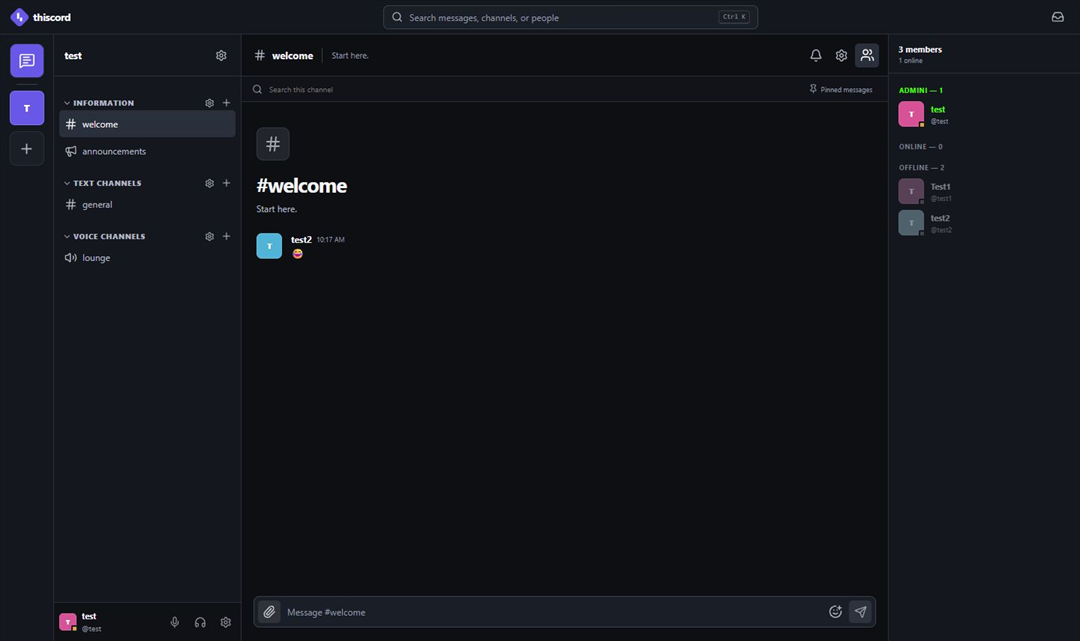
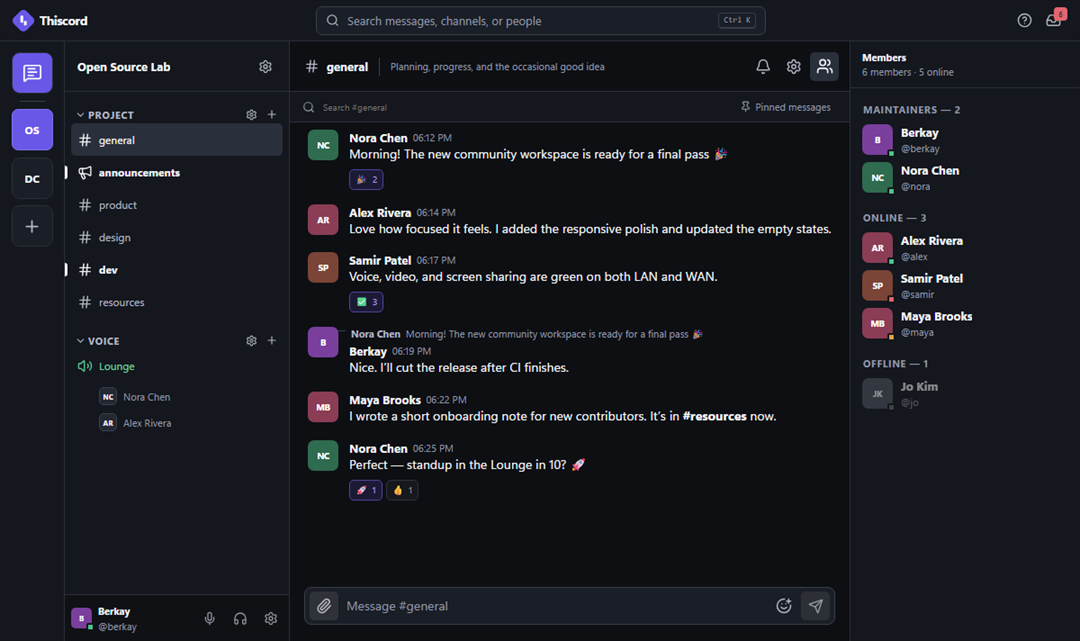
fix(renderer): unclip reaction picker

diff --git a/apps/renderer/tests/ui/renderer.spec.ts b/apps/renderer/tests/ui/renderer.spec.ts
@@ -186,6 +186,45 @@ test.describe('renderer accessibility and responsive contracts', () => {
     await expect(reaction).toHaveAttribute('aria-pressed', 'true')
   })
 
+  test('message reaction picker is not clipped by the message row', async ({ page }) => {
+    await page.setViewportSize({ width: 800, height: 700 })
+    await mountWorkspaceControls(page)
+
+    await page.locator('.message-row').hover()
+    await page.getByRole('button', { name: 'Add reaction' }).click()
+    const picker = page.getByRole('group', { name: 'Choose emoji' })
+    await expect(picker).toBeVisible()
+    await expect(picker.getByRole('button', { name: 'Insert 👍' })).toBeVisible()
+    await expect(picker.getByText('More emoji')).toBeVisible()
+
+    const geometry = await picker.evaluate((element) => {
+      const pickerBounds = element.getBoundingClientRect()
+      const messageBounds = element.closest('.message-list-item')?.getBoundingClientRect()
+      return {
+        pickerHeight: pickerBounds.height,
+        extendsPastMessage: Boolean(messageBounds && pickerBounds.bottom > messageBounds.bottom),
+        contentVisibility: messageBounds
+          ? getComputedStyle(element.closest('.message-list-item')!).contentVisibility
+          : '',
+      }
+    })
+    expect(geometry.pickerHeight).toBeGreaterThan(80)
+    expect(geometry.extendsPastMessage).toBe(true)
+    expect(geometry.contentVisibility).toBe('visible')
+
+    await page.setViewportSize({ width: 320, height: 568 })
+    const mobileGeometry = await picker.evaluate((element) => {
+      const bounds = element.getBoundingClientRect()
+      return {
+        left: bounds.left,
+        right: bounds.right,
+        viewportWidth: document.documentElement.clientWidth,
+      }
+    })
+    expect(mobileGeometry.left).toBeGreaterThanOrEqual(0)
+    expect(mobileGeometry.right).toBeLessThanOrEqual(mobileGeometry.viewportWidth)
+  })
+
   test('message avatars open the author profile', async ({ page }) => {
     await mountWorkspaceControls(page)
 

diff --git a/apps/renderer/src/styles/workspace-core.css b/apps/renderer/src/styles/workspace-core.css
@@ -1208,6 +1208,11 @@
   contain-intrinsic-size: auto 64px;
 }
 
+.message-list-item:focus-within,
+.message-list-item:has(.reaction-picker) {
+  content-visibility: visible;
+}
+
 .message-row:hover {
   background: var(--message-hover);
 }

diff --git a/README.md b/README.md
@@ -22,7 +22,7 @@
   <a href="docs/architecture.md">Architecture</a>
 </p>
 
-![Thiscord self-hosted community chat workspace showing text channels, voice channels, messages, roles, and online members](docs/images/thiscord-community-workspace.png)
+![Thiscord self-hosted community workspace showing active text channels, voice participants, replies, reactions, and the member list](docs/images/thiscord-community-workspace.png)
 
 ## What is Thiscord?
 
